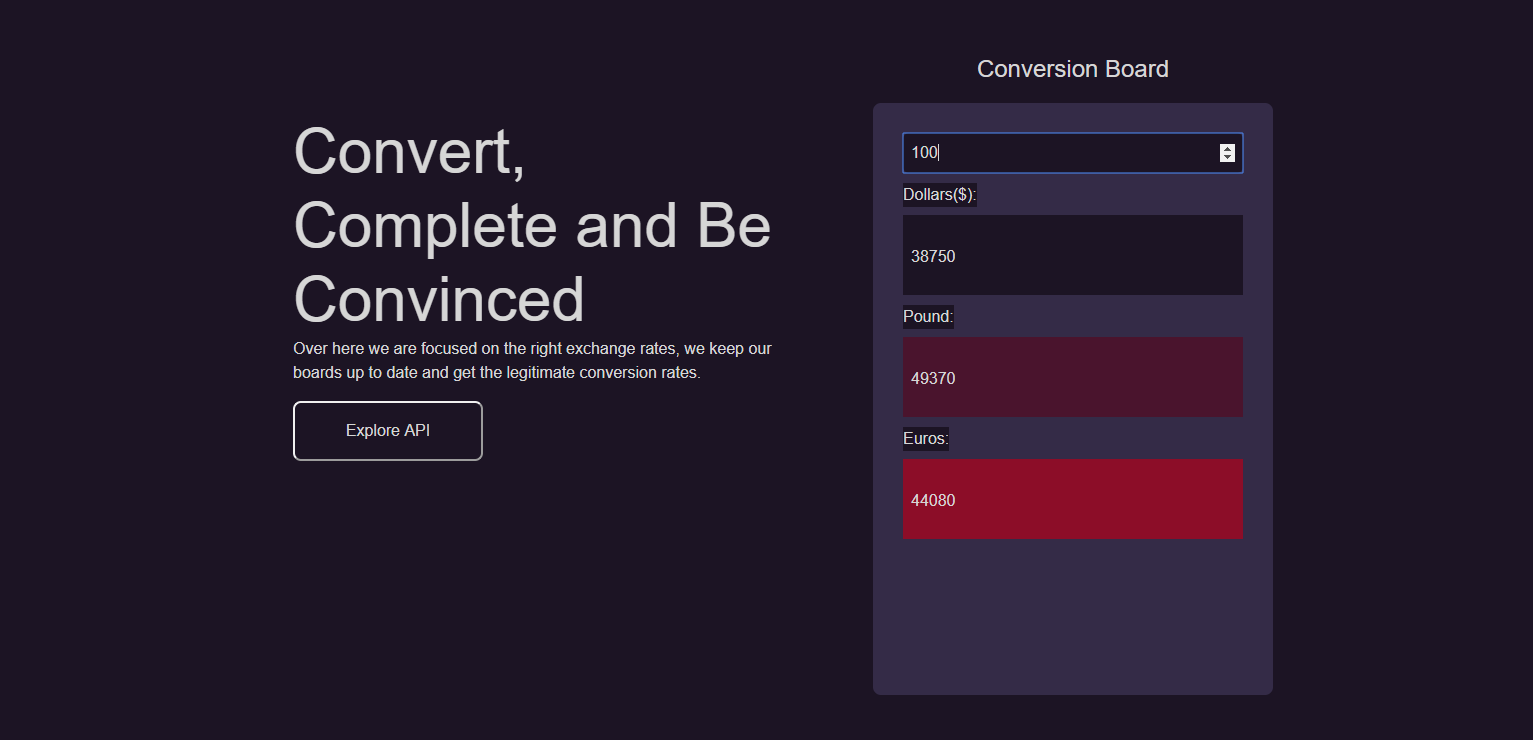
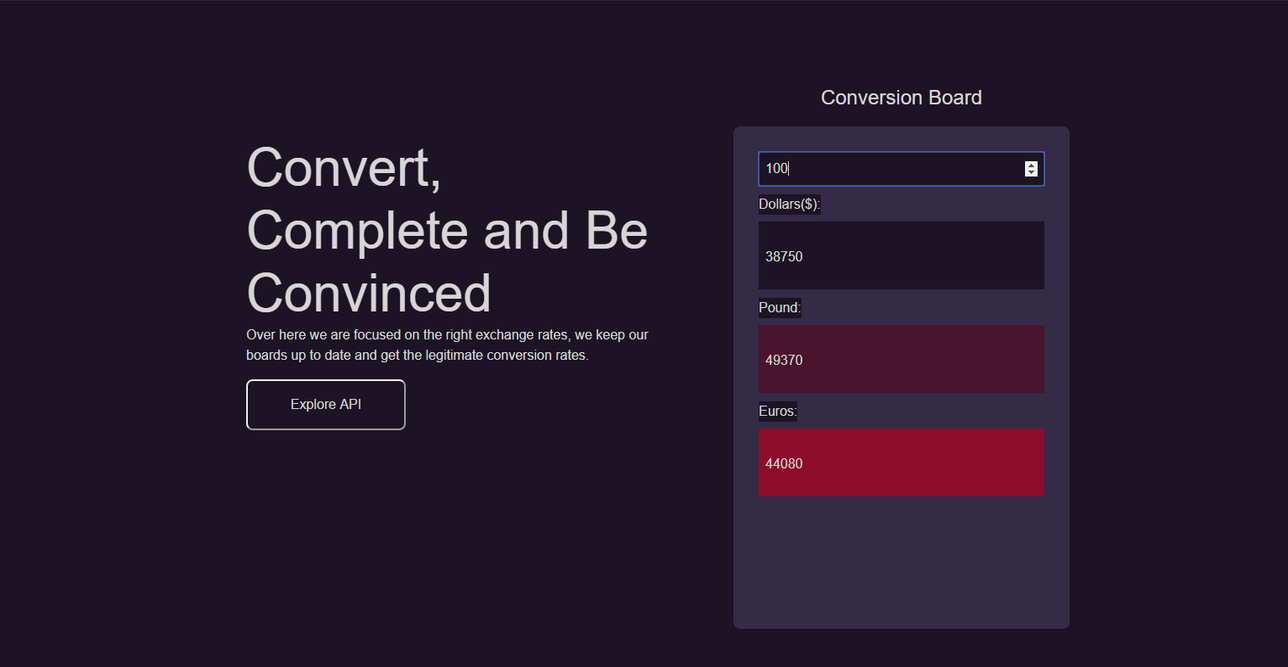
Edited some features

Changed region(s): [[0.559, 0.06, 0.8385, 0.7496], [0.1863, 0.1499, 0.528, 0.6597]]

diff --git a/index.html b/index.html
@@ -3,7 +3,7 @@
 <head>
     <meta charset="UTF-8">
     <meta name="viewport" content="width=device-width, initial-scale=1.0">
-    <title> Kenechukwu Nwobodo's Portfolio</title>
+    <title> Kenechukwu Nwobodo's Portfolio|Frontend Engineer</title>
     <!--css links-->
     <link rel="stylesheet" href="./css/global.css">
     <link rel="stylesheet" href="./css/index.css">
@@ -52,7 +52,7 @@
             <div class="about_body">
                <!--My picture goes here-->
                <div class="about_content div_photo" data-aos="fade-right">
-                <img class="about_img" src="photos/KenechukwuNwobodo.jpg" alt="Kenechukwu Nwobodo (Frontend Developer)">
+                <img class="about_img" src="photos/Kene.jpg" alt="Kenechukwu Nwobodo (Frontend Developer)">
               </div>
               <div class="about_content" data-aos="fade-left">
                <p class="about_para1">
@@ -79,7 +79,7 @@
         <h2 class="project_heading2" data-aos="flip-up"><span class="project_heading2--span">&lt;</span>Project<span class="project_heading2--span">&gt;</span></h2> 
         <div class="project_body">
        <div class="project_div" data-aos="fade-right">
-                <img class="project_img"  src="./photos/curr.png" alt="currency converter image">
+                <img class="project_img"  src="photos/currencyConverter.png" alt="currency converter image">
                 <h3 class="project_heading3">Currency Converter Web App</h3>
                 <h4 class="project_heading4">JS Project</h4>
                 <p class="project_para">This is an application that enables users to convert currency</p>
@@ -88,18 +88,20 @@
             
         <div class="project_div" data-aos="fade-left">
             <img src="./photos/agedPrompt.PNG" alt="agedPrompt image"  class="project_img">
-            <h3 class="project_heading3">AgedPrompt Web App</h3>
+            <h3 class="project_heading3">AgedPrompt Landing Page Web App</h3>
             <h4 class="project_heading4">JS Project</h4>
-            <p class="project_para">JS Project</p>
+            <p class="project_para">AgedPrompt is an app that tackles lonliness 
+                in old people by calling and chatting with them regulary as well as reminding them to
+                 take their medications. It does this through an AI bot.</p>
             <button class="project_btn"><a href="https://agedprompt.herokuapp.com/" class="project_link">Project Details</a></button>
         </div>
 
         <div class="project_div" data-aos="fade-right">
-            <img src="" alt=""  class="project_img">
-            <h3 class="project_heading3">AgedPrompt Web App</h3>
-            <h4 class="project_heading4"></h4>
+            <img src="photos/cap.png" alt=""  class="project_img">
+            <h3 class="project_heading3">Wall Clock Web App</h3>
+            <h4 class="project_heading4">JS Project</h4>
             <p class="project_para">AgedPrompt is an applicatio.....</p>
-            <button class="project_btn"><a href="" class="project_link">Project Details</a></button>
+            <button class="project_btn"><a href="https://javascript-clocks.netlify.app/" class="project_link">Project Details</a></button>
         </div>
 
         <div class="project_div" data-aos="fade-left">
@@ -171,7 +173,7 @@
     AOS.init(
         {
             offset: 400,
-            duration: 1000
+            duration: 1400
 
     });
   </script>

diff --git a/css/index.css b/css/index.css
@@ -1,13 +1,9 @@
-#main_section {
-    height: 75vh;
-    margin-top: 120px;
-
-}
 
 .main_container {
+    min-height: 100vh;
     display: flex;
     justify-content: center;
-    align-content: center;
+    align-items: center;
     overflow: hidden;
 }
 
@@ -93,12 +89,20 @@
 
 .about_img {
     max-width: 100%;
+   
+}
+
+.div_photo{
+    display: flex;
+    justify-content: center;
+    align-items: center;
 }
 
 .about_content{
     flex: 50%;
     max-width: 50%;
     padding: 30px;  
+  
 }
 
 .about_para1, .about_para2 {
